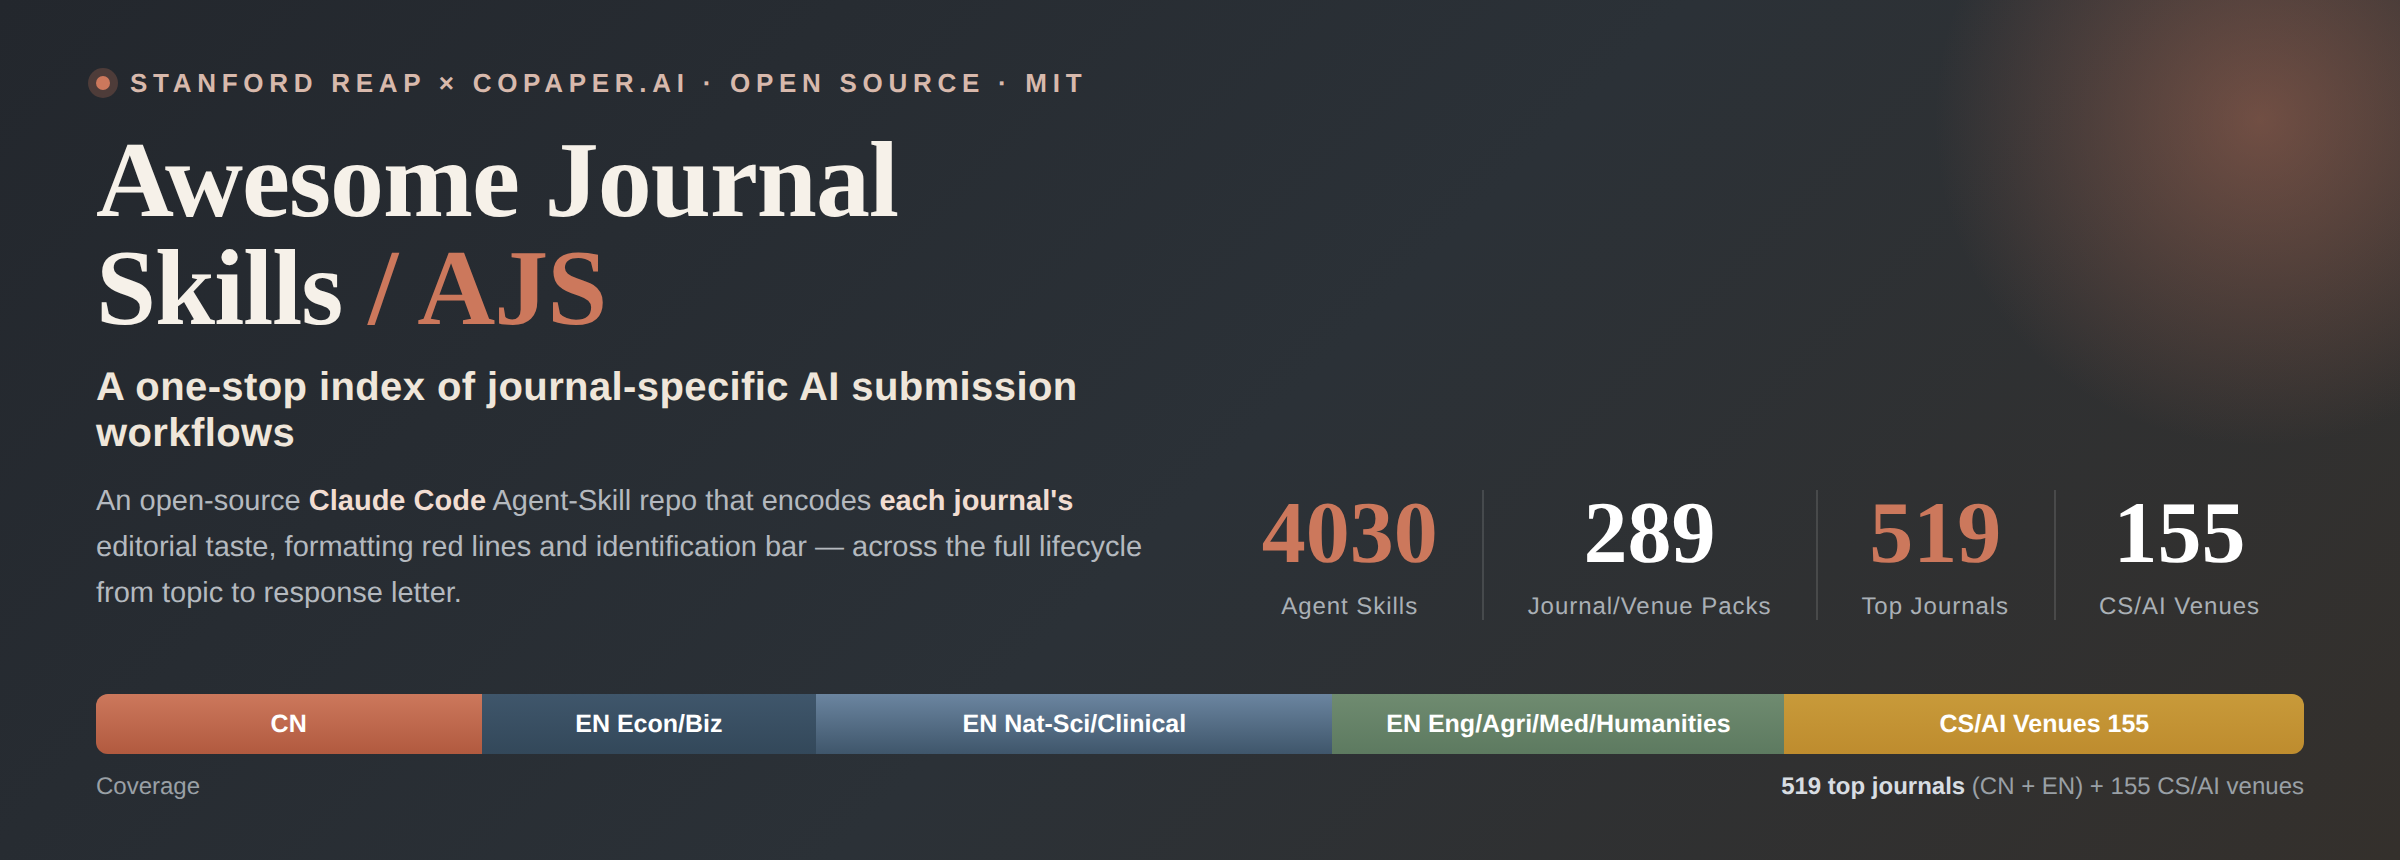
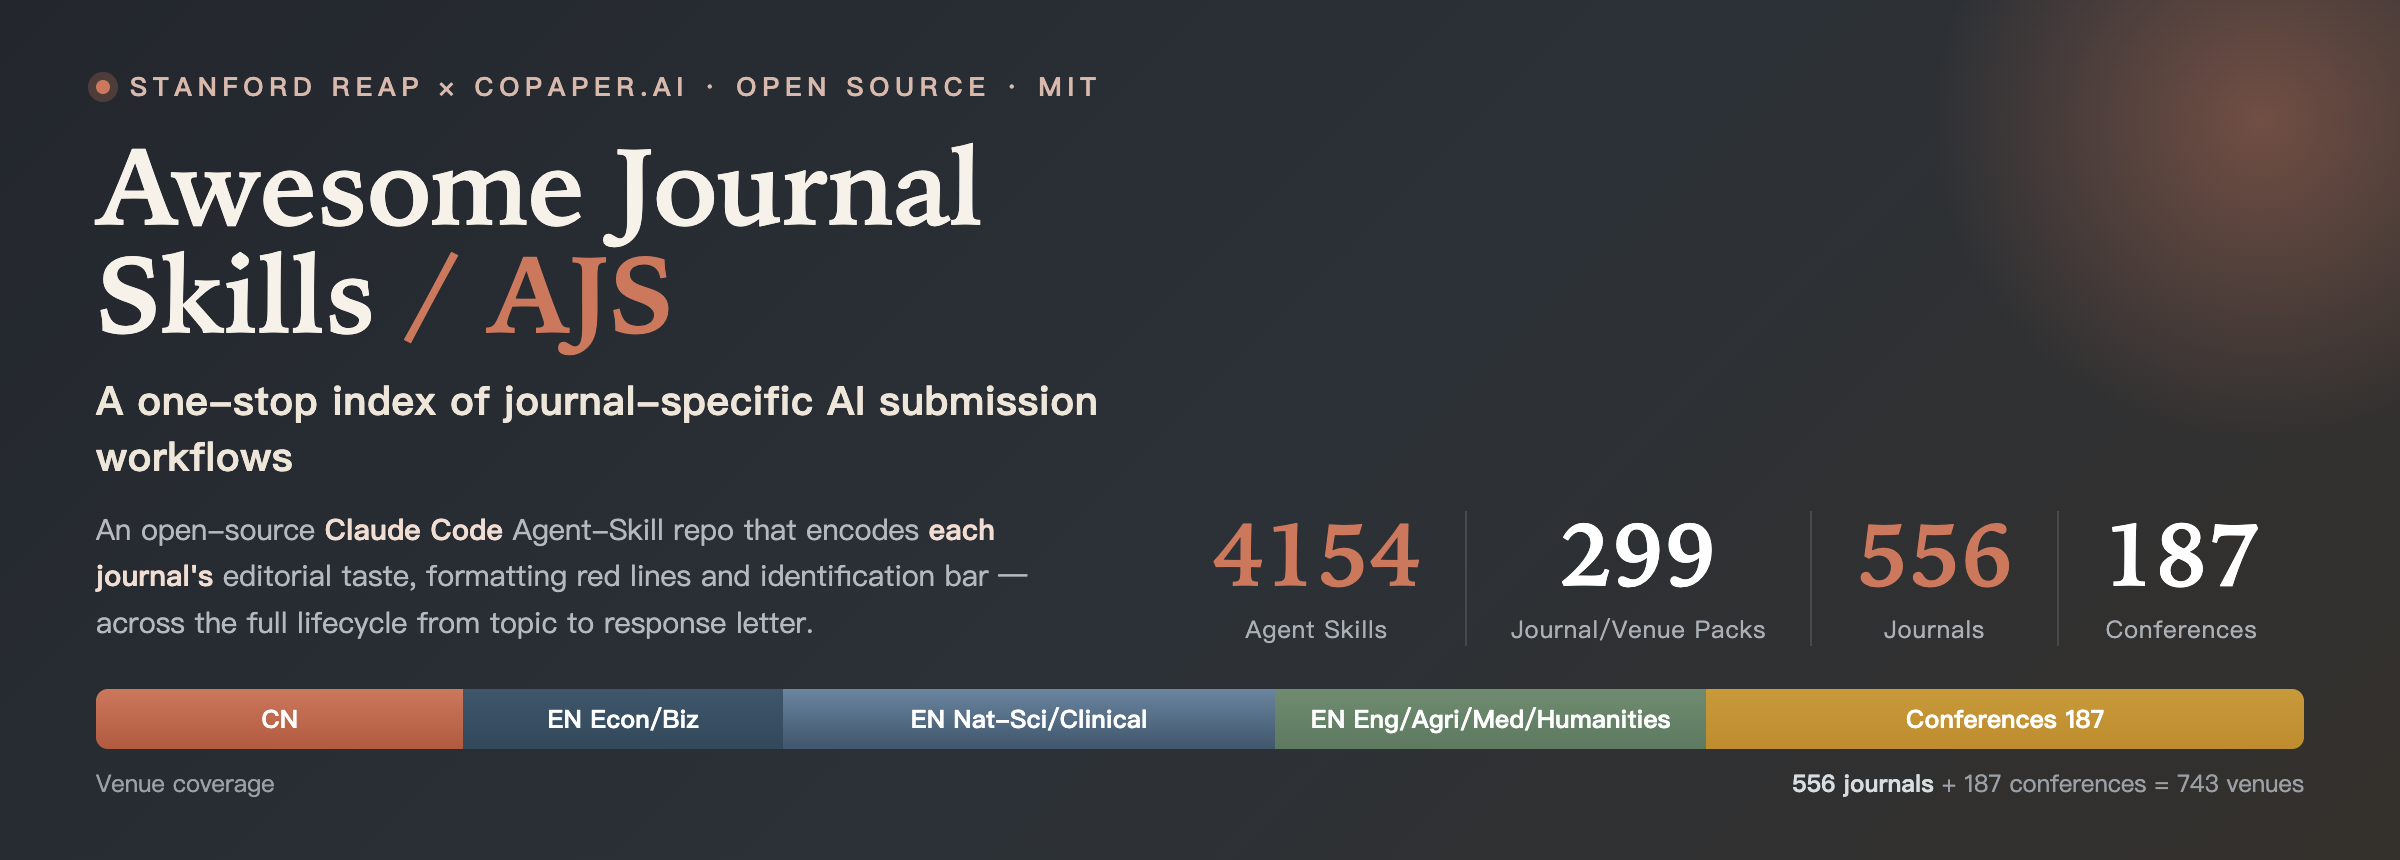
repo: harden quality and freshness maintenance
Refresh public counts and deterministic banners, enforce release and freshness invariants, and make the quality score reflect source maintenance.

diff --git a/assets/banner-src/banner-zh.html b/assets/banner-src/banner-zh.html
@@ -69,10 +69,10 @@
       <div class="brand-sub">面向 <b>Claude Code</b> 的开源 Agent Skill 仓库——为<b>每一本期刊</b>单独编码它的编委偏好、格式红线与识别标准，覆盖选题到 Response 的完整投稿生命周期。</div>
     </div>
     <div class="stats">
-      <div class="stat accent"><div class="num">4030</div><div class="lbl">Agent Skills</div></div>
-      <div class="stat"><div class="num">289</div><div class="lbl">期刊/会议 Pack</div></div>
-      <div class="stat accent"><div class="num">519</div><div class="lbl">本顶级期刊</div></div>
-      <div class="stat"><div class="num">155</div><div class="lbl">CS/AI 顶会</div></div>
+      <div class="stat accent"><div class="num">{{SKILL_COUNT}}</div><div class="lbl">Agent Skills</div></div>
+      <div class="stat"><div class="num">{{PACK_COUNT}}</div><div class="lbl">期刊/会议 Pack</div></div>
+      <div class="stat accent"><div class="num">{{JOURNAL_COUNT}}</div><div class="lbl">本期刊</div></div>
+      <div class="stat"><div class="num">{{CONFERENCE_COUNT}}</div><div class="lbl">学术会议</div></div>
     </div>
   </div>
   <div class="cov">
@@ -81,9 +81,9 @@
       <div class="seg seg-en1" style="flex:100">英文经管</div>
       <div class="seg seg-en2" style="flex:154">英文自然/临床</div>
       <div class="seg seg-eng" style="flex:135">英文工程·农医·人文</div>
-      <div class="seg seg-cs"  style="flex:155">CS/AI 会议 155</div>
+      <div class="seg seg-cs"  style="flex:187">学术会议 {{CONFERENCE_COUNT}}</div>
     </div>
-    <div class="cov-cap"><span>期刊覆盖 · Coverage</span><span><b>519 本中英文顶刊</b> + 155 个 CS/AI 顶会</span></div>
+    <div class="cov-cap"><span>Venue 覆盖 · Coverage</span><span><b>{{JOURNAL_COUNT}} 本期刊</b> + {{CONFERENCE_COUNT}} 个会议 = {{VENUE_COUNT}} venues</span></div>
   </div>
 </div>
 </body>

diff --git a/assets/banner-src/banner-en.html b/assets/banner-src/banner-en.html
@@ -67,10 +67,10 @@
       <div class="brand-sub">An open-source <b>Claude Code</b> Agent-Skill repo that encodes <b>each journal's</b> editorial taste, formatting red lines and identification bar — across the full lifecycle from topic to response letter.</div>
     </div>
     <div class="stats">
-      <div class="stat accent"><div class="num">4030</div><div class="lbl">Agent Skills</div></div>
-      <div class="stat"><div class="num">289</div><div class="lbl">Journal/Venue Packs</div></div>
-      <div class="stat accent"><div class="num">519</div><div class="lbl">Top Journals</div></div>
-      <div class="stat"><div class="num">155</div><div class="lbl">CS/AI Venues</div></div>
+      <div class="stat accent"><div class="num">{{SKILL_COUNT}}</div><div class="lbl">Agent Skills</div></div>
+      <div class="stat"><div class="num">{{PACK_COUNT}}</div><div class="lbl">Journal/Venue Packs</div></div>
+      <div class="stat accent"><div class="num">{{JOURNAL_COUNT}}</div><div class="lbl">Journals</div></div>
+      <div class="stat"><div class="num">{{CONFERENCE_COUNT}}</div><div class="lbl">Conferences</div></div>
     </div>
   </div>
   <div class="cov">
@@ -79,9 +79,9 @@
       <div class="seg seg-en1" style="flex:100">EN Econ/Biz</div>
       <div class="seg seg-en2" style="flex:154">EN Nat-Sci/Clinical</div>
       <div class="seg seg-eng" style="flex:135">EN Eng/Agri/Med/Humanities</div>
-      <div class="seg seg-cs"  style="flex:155">CS/AI Venues 155</div>
+      <div class="seg seg-cs"  style="flex:187">Conferences {{CONFERENCE_COUNT}}</div>
     </div>
-    <div class="cov-cap"><span>Coverage</span><span><b>519 top journals</b> (CN + EN) + 155 CS/AI venues</span></div>
+    <div class="cov-cap"><span>Venue coverage</span><span><b>{{JOURNAL_COUNT}} journals</b> + {{CONFERENCE_COUNT}} conferences = {{VENUE_COUNT}} venues</span></div>
   </div>
 </div>
 </body>

diff --git a/tools/audit_repo.py b/tools/audit_repo.py
@@ -23,6 +23,7 @@ ROOT = Path(__file__).resolve().parents[1]
 EXPECTED_SKILL_COUNT = 4154
 EXPECTED_PACK_COUNT = 299
 EXPECTED_ROOT_JOURNAL_ENTRIES = 200
+EXPECTED_VENUE_COUNT = 743
 # Executed empirical evidence cases under showcase/. Each is a real MCP tool
 # run committed as documentation; removing one silently would weaken the
 # repo's central "automated empirical research" claim.
@@ -233,6 +234,18 @@ def check_readme_badges(errors: list[str]) -> None:
             errors.append(f"{rel(path)} does not mention expected skill count {EXPECTED_SKILL_COUNT}")
         if str(EXPECTED_PACK_COUNT) not in text:
             errors.append(f"{rel(path)} does not mention expected pack count {EXPECTED_PACK_COUNT}")
+        if str(EXPECTED_VENUE_COUNT) not in text:
+            errors.append(f"{rel(path)} does not mention expected venue count {EXPECTED_VENUE_COUNT}")
+
+    required_banner_tokens = {
+        "{{SKILL_COUNT}}", "{{PACK_COUNT}}", "{{JOURNAL_COUNT}}",
+        "{{CONFERENCE_COUNT}}", "{{VENUE_COUNT}}",
+    }
+    for path in (ROOT / "assets/banner-src/banner-zh.html", ROOT / "assets/banner-src/banner-en.html"):
+        text = path.read_text(encoding="utf-8")
+        missing = sorted(required_banner_tokens - set(re.findall(r"{{[A-Z_]+}}", text)))
+        if missing:
+            errors.append(f"{rel(path)} missing generated count token(s): {missing}")
 
 
 def check_root_marketplace(errors: list[str]) -> None:
@@ -245,6 +258,14 @@ def check_root_marketplace(errors: list[str]) -> None:
     if not isinstance(entries, list):
         errors.append(f"{rel(marketplace_path)} plugins must be a list")
         return
+
+    root_version = marketplace.get("version")
+    entry_versions = {entry.get("version") for entry in entries if isinstance(entry, dict)}
+    if len(entry_versions) == 1 and root_version not in entry_versions:
+        errors.append(
+            f"{rel(marketplace_path)} top-level version {root_version!r} "
+            f"!= pack release version {next(iter(entry_versions))!r}"
+        )
 
     expected_roots = {rel(path) for path in first_party_plugin_roots()}
     seen_roots: set[str] = set()

diff --git a/tools/set_version.py b/tools/set_version.py
@@ -6,7 +6,8 @@ A pack's version is written in four places that ``audit_repo.py`` requires to ag
 1. ``<pack>/.claude-plugin/plugin.json`` → ``version``
 2. ``<pack>/.claude-plugin/marketplace.json`` → ``version``
 3. ``<pack>/.claude-plugin/marketplace.json`` → ``plugins[].version``
-4. ``.claude-plugin/marketplace.json`` (root) → ``plugins[].version``
+4. ``.claude-plugin/marketplace.json`` (root) → top-level ``version`` and
+   ``plugins[].version``
 
 Editing those by hand across ~300 packs is how versions drift. Imported third-party
 packs are left alone.
@@ -84,6 +85,8 @@ def main(argv: list[str]) -> int:
         touched.add(pack.name)
 
     root = load(ROOT_MARKETPLACE)
+    if args.pack is None:
+        root["version"] = args.version
     updated = 0
     for entry in root.get("plugins", []):
         source = entry.get("source", "").lstrip("./").rstrip("/")

diff --git a/README.en.md b/README.en.md
@@ -1,7 +1,7 @@
 # Awesome Journal Skills (AJS)
 
 <p align="center">
-  <img src="assets/banner-en.png" alt="Awesome Journal Skills (AJS) — a one-stop index of journal-specific AI submission workflows: 4154 agent skills, 299 packs, 522 top journals, 155 CS/AI venues" width="100%">
+  <img src="assets/banner-en.png" alt="Awesome Journal Skills (AJS): 4154 agent skills, 299 packs, and 743 journal and conference venues" width="100%">
 </p>
 
 [![Awesome](https://awesome.re/badge.svg)](https://awesome.re)
@@ -66,7 +66,7 @@ Click any discipline name to jump to its explanation. Representative subfields a
     <a href="#-the-skill-packs">📚 The Skill Packs</a> ·
     <a href="#-how-to-use">⚡ How to Use</a> ·
     <a href="showcase/README.md">🧪 Executed Empirical Showcase</a> ·
-    <a href="shared-resources/journal-selection/venue-index.tsv">🔎 Venue Index (289 venues, machine-readable)</a> ·
+    <a href="shared-resources/journal-selection/venue-index.tsv">🔎 Venue Index (743 venues, machine-readable)</a> ·
     <a href="#-roadmap">🗺 Roadmap</a> ·
     <a href="README.md">🌐 简体中文</a>
   </sub>
@@ -417,7 +417,7 @@ Rule of thumb: start from a root folder or cover card when browsing, use a bread
 
 ## 📂 200 Root Journal Folders
 
-For visual browsing at the repository root, the 200 social-science breadth journals now also have one lightweight folder each: 100 Chinese roadmap journals in pinyin folder names, and 100 English econ / finance / management / business journals in title-style folder names. These folders are navigation entries only; the canonical installable `SKILL.md` files remain inside their bundle directories, so plugin paths and the 4030-skill count stay stable.
+For visual browsing at the repository root, the 200 social-science breadth journals now also have one lightweight folder each: 100 Chinese roadmap journals in pinyin folder names, and 100 English econ / finance / management / business journals in title-style folder names. These folders are navigation entries only; the canonical installable `SKILL.md` files remain inside their bundle directories, so plugin paths and the audited skill count stay stable.
 
 ### Chinese Roadmap Journals · 100 Pinyin Folders
 

diff --git a/README.md b/README.md
@@ -1,7 +1,7 @@
 # Awesome Journal Skills (AJS)
 
 <p align="center">
-  <img src="assets/banner-zh.png" alt="Awesome Journal Skills (AJS) — 按「期刊」定制的一站式 AI 投稿工作流索引：4154 个 Agent Skill、299 个 Pack、522 本顶级期刊、155 个 CS/AI 顶会" width="100%">
+  <img src="assets/banner-zh.png" alt="Awesome Journal Skills (AJS)：4154 个 Agent Skill、299 个 Pack、743 个期刊与会议 venue" width="100%">
 </p>
 
 [![Awesome](https://awesome.re/badge.svg)](https://awesome.re)
@@ -66,7 +66,7 @@
     <a href="#-skill-pack-一览">📚 Skill Pack 一览</a> ·
     <a href="#-如何使用">⚡ 如何使用</a> ·
     <a href="showcase/README.md">🧪 自动实证 Showcase（真实运行证据）</a> ·
-    <a href="shared-resources/journal-selection/venue-index.tsv">🔎 Venue 索引（289 刊机读表）</a> ·
+    <a href="shared-resources/journal-selection/venue-index.tsv">🔎 Venue 索引（743 个 venue，机读表）</a> ·
     <a href="#-路线图">🗺 路线图</a> ·
     <a href="README.en.md">🌐 English</a>
   </sub>
@@ -417,7 +417,7 @@ python3 tools/match_venues.py --title "..." --abstract "..." \
 
 ## 📂 根目录 200 个期刊文件夹
 
-为了让用户在仓库首页的根目录就能看到完整的社科期刊阵列，现在 200 本广度合集期刊各有一个轻量入口文件夹：100 本中文经管路线图期刊使用拼音目录名，100 本英文经管 / 商科期刊使用英文题名目录名。这些目录只负责导航；真正可安装的 `SKILL.md` 仍保留在对应 bundle 内，因此插件路径和 4030 个 skill 的计数不会被重复放大。
+为了让用户在仓库首页的根目录就能看到完整的社科期刊阵列，现在 200 本广度合集期刊各有一个轻量入口文件夹：100 本中文经管路线图期刊使用拼音目录名，100 本英文经管 / 商科期刊使用英文题名目录名。这些目录只负责导航；真正可安装的 `SKILL.md` 仍保留在对应 bundle 内，因此插件路径和经审计的 skill 计数不会被重复放大。
 
 ### 中文经管路线图 · 100 个拼音目录
 
